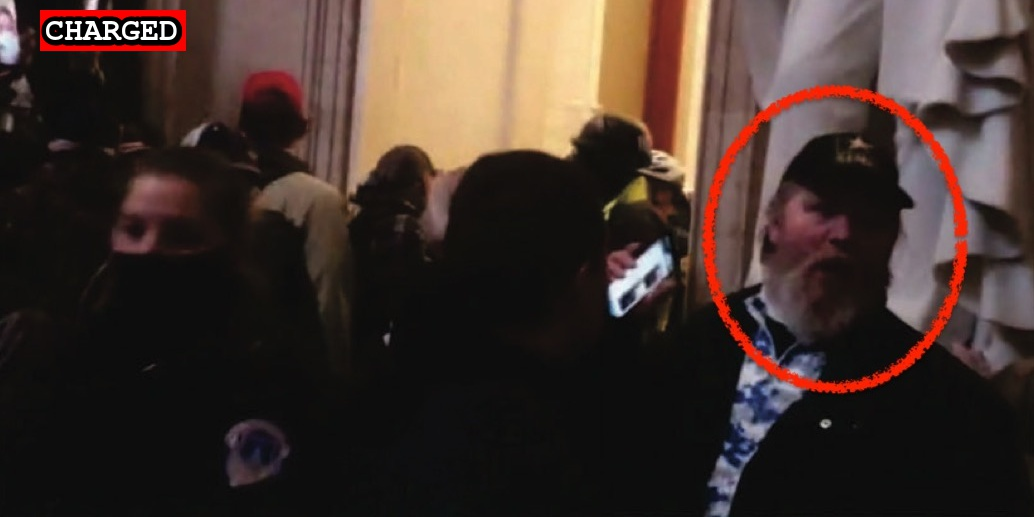
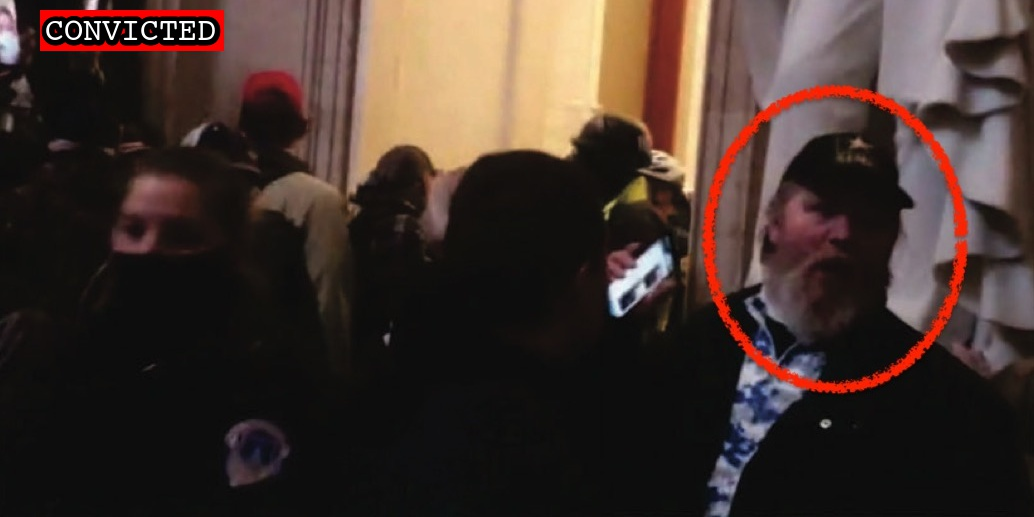
Updates

Changed region(s): [[0.0309, 0.0, 0.2166, 0.1238]]

diff --git a/docs/_suspects/andrew-williams.md b/docs/_suspects/andrew-williams.md
@@ -9,11 +9,11 @@ date: 2021-01-12
 charged: 2021-01-12
 indicted:
 convicted: 2021-11-02
-sentenced: 
-dismissed: 
+sentenced:
+dismissed:
 deceased:
 plea_hearing: 2021-11-02
-sentencing:
+sentencing: 2022-02-09
 age:
 occupation: Fire Fighter
 affiliations:
@@ -34,12 +34,13 @@ published: true
 caseNumber: 1:21-cr-45
 videos:
 charges:
-- code: 18 USC § 5104(e)(2)(G)
-  title: Parading, demonstrating or picketing in a Capitol building
-  url: https://www.law.cornell.edu/uscode/text/40/5104
-  felony: false
+  - code: 18 USC § 5104(e)(2)(G)
+    title: Parading, demonstrating or picketing in a Capitol building
+    url: https://www.law.cornell.edu/uscode/text/40/5104
+    felony: false
 sentence:
 ---
+
 - [News Report](https://people.com/crime/fbi-arrests-florida-firefighter-seen-in-videos-at-capitol-riots/)
 - [DOJ Press Release](https://www.justice.gov/usao-dc/pr/seven-charged-federal-court-following-events-united-capitol)
 - [Courthouse Steps [Video]](https://twitter.com/EricMockTV/status/1349127558709866502?s=20)

diff --git a/docs/_suspects/edward-spain.md b/docs/_suspects/edward-spain.md
@@ -4,15 +4,15 @@ lastName: Spain
 hashtag:
 aka:
 residence: Oklahoma
-status: Charged
+status: Convicted
 date: 2021-10-05
 charged: 2021-10-05
 indicted:
-convicted:
+convicted: 2022-02-01
 sentenced:
 dismissed:
 deceased:
-plea_hearing:
+plea_hearing: 2022-02-01
 sentencing:
 age: 56
 occupation:
@@ -34,8 +34,11 @@ published: true
 caseNumber: 1:21-mj-624
 videos:
 charges:
+- code: 18 USC § 5104(e)(2)(G)
+  title: Parading, demonstrating or picketing in a Capitol building
+  url: https://www.law.cornell.edu/uscode/text/40/5104
+  felony: false
 sentence:
 ---
-
 - [News Report](https://www.oklahoman.com/story/news/2021/10/07/trump-supporter-oklahoma-admits-poor-judgment-capitol-breach-faces-charge/6040173001/)
 - [Complaint](https://extremism.gwu.edu/sites/g/files/zaxdzs2191/f/Edward%20Spain%20Jr%20Criminal%20Complaint.pdf)
